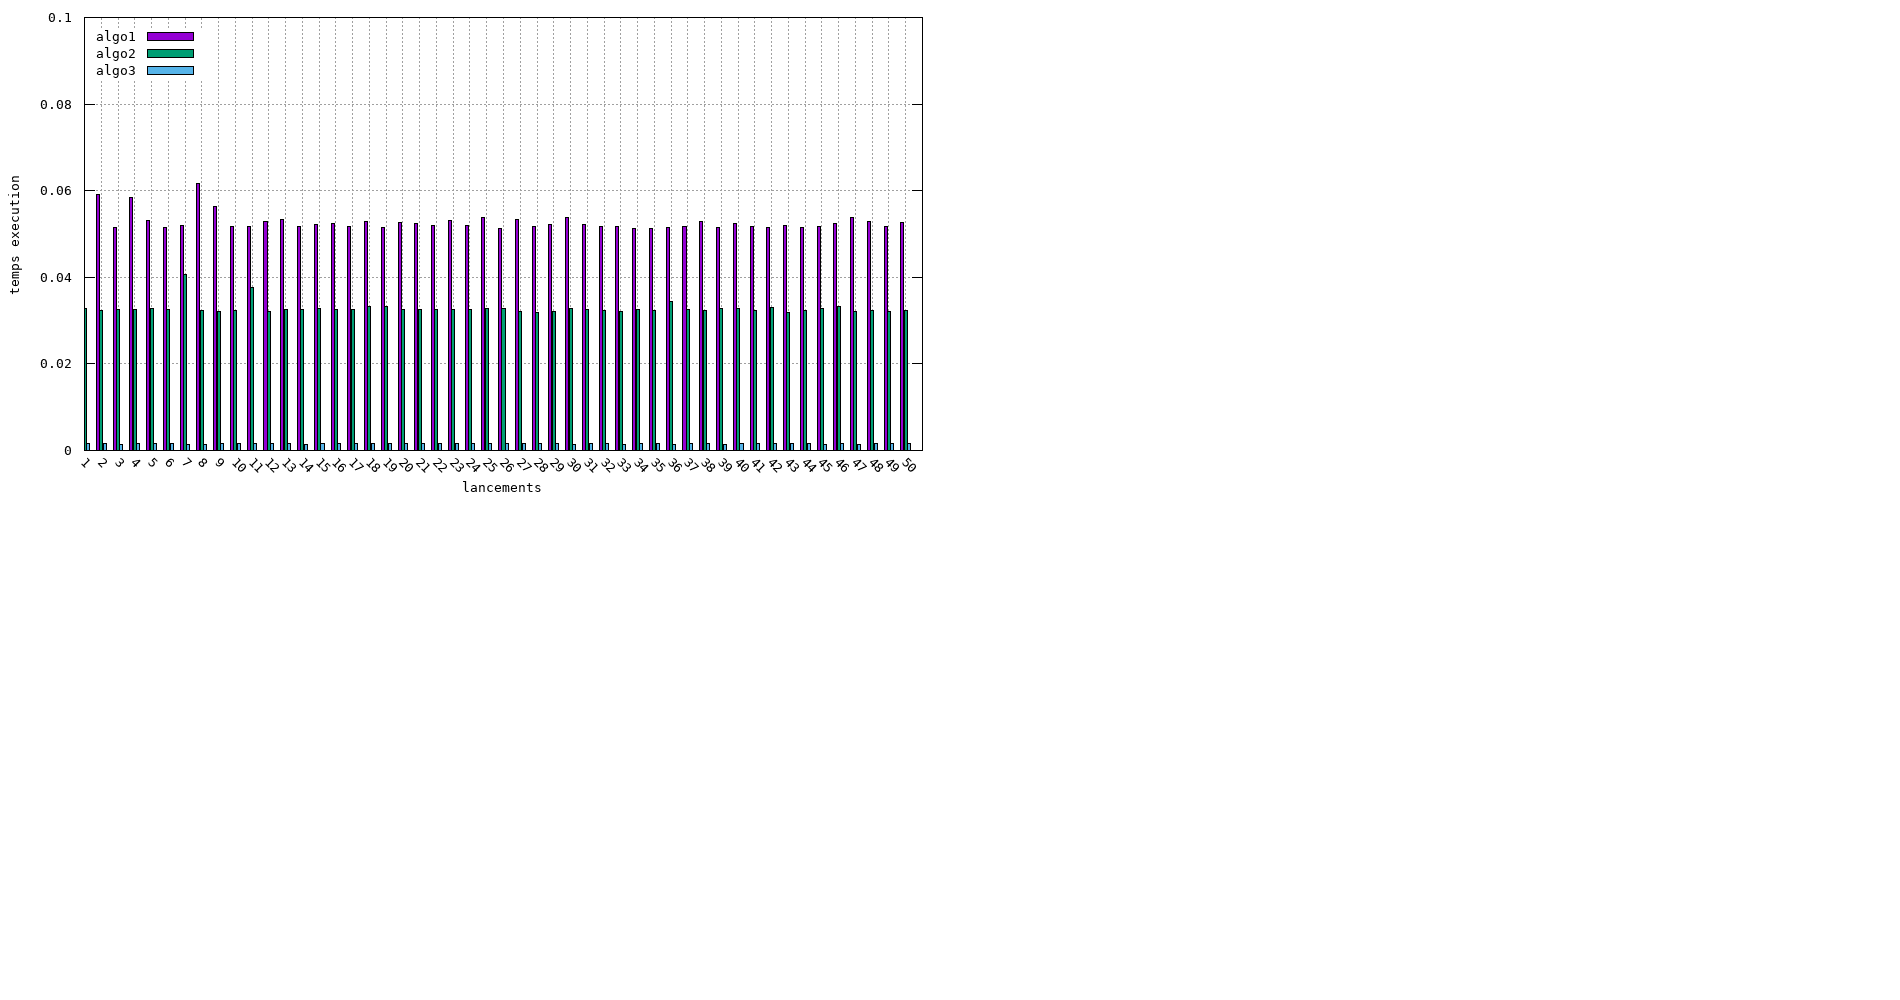
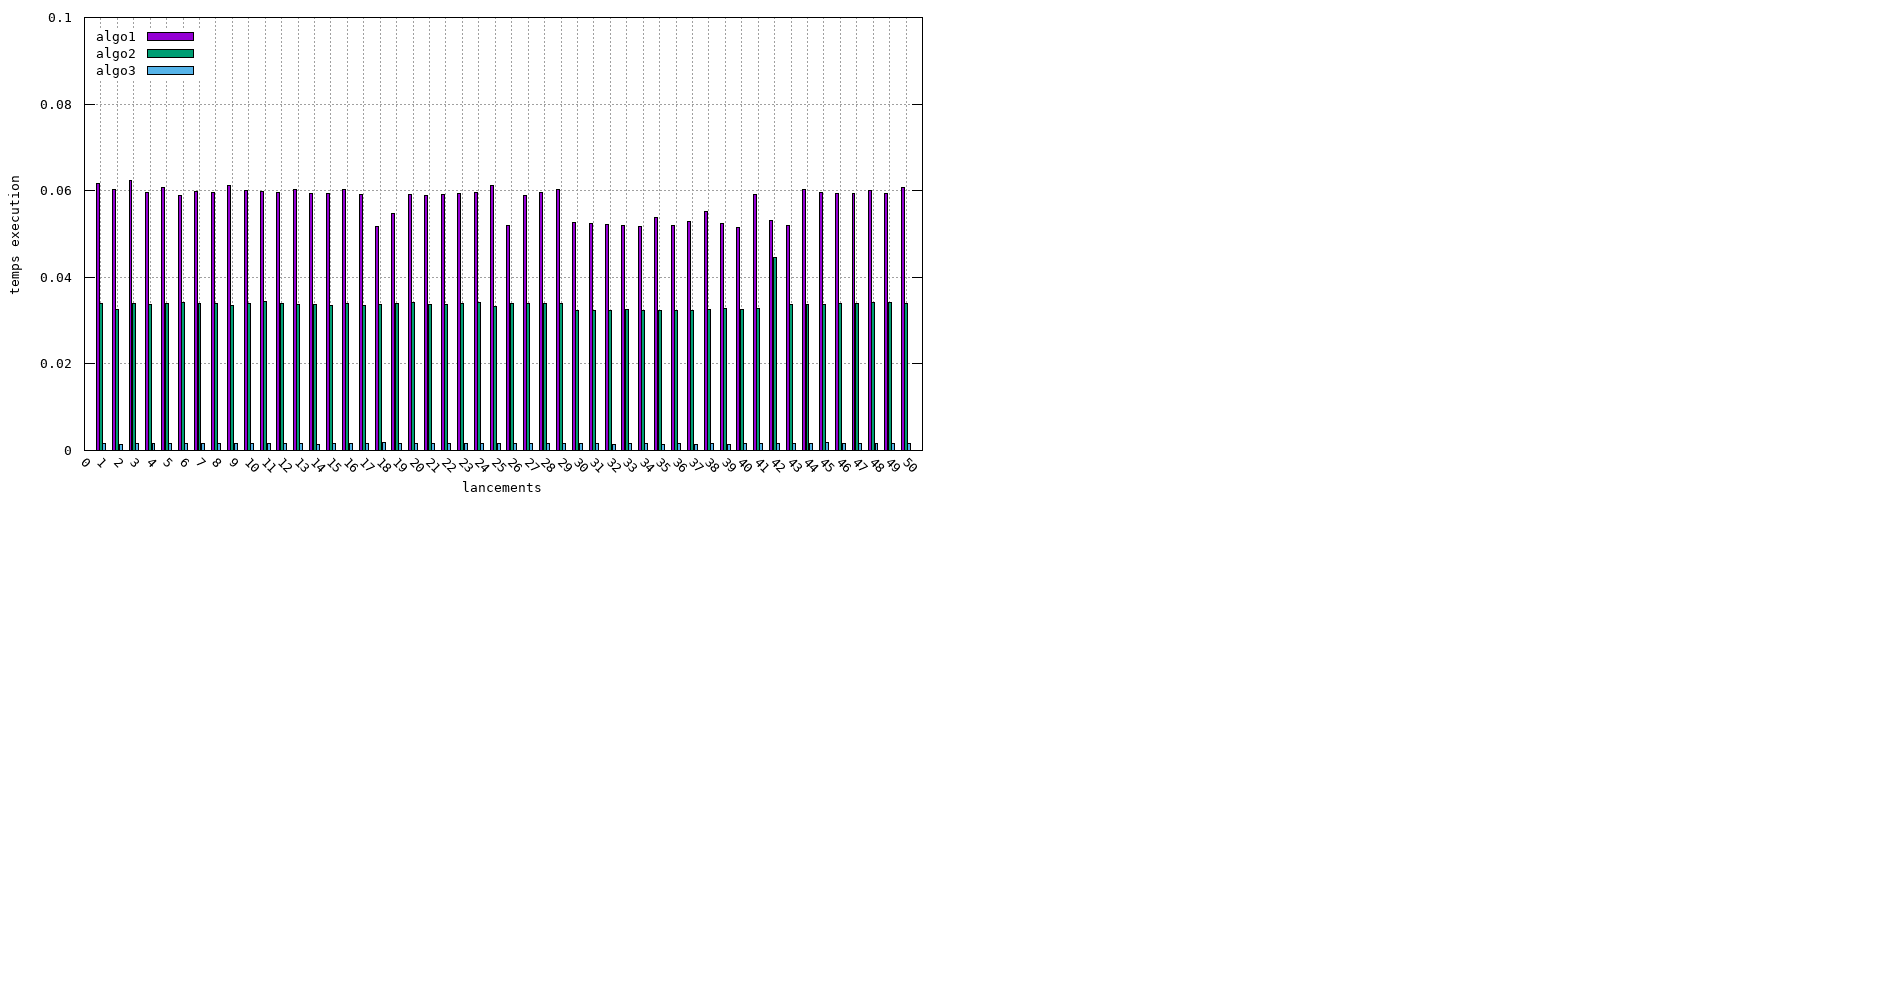
amelioration courbes

Changed region(s): [[0.0311, 0.186, 0.4968, 0.496]]

diff --git a/src/transferData.py b/src/transferData.py
@@ -4,6 +4,8 @@ def transferDataAlgo1():
 	lines = datafile.readlines()
 	count=0
 	datafileTransfer=open("../data/data_algo1_time_all.dat","a")
+	datafileTransfer.write(str(0)+";"+str(0))
+	datafileTransfer.write("\n")
 	for line in lines:
 	    count += 1
 	    data=line.strip()
@@ -16,6 +18,8 @@ def transferDataAlgo2():
 	lines = datafile.readlines()
 	count=0
 	datafileTransfer=open("../data/data_algo2_time_all.dat","a")
+	datafileTransfer.write(str(0)+";"+str(0))
+	datafileTransfer.write("\n")
 	for line in lines:
 	    count += 1
 	    data=line.strip()
@@ -28,6 +32,8 @@ def transferDataAlgo3():
 	lines = datafile.readlines()
 	count=0
 	datafileTransfer=open("../data/data_algo3_time_all.dat","a")
+	datafileTransfer.write(str(0)+";"+str(0))
+	datafileTransfer.write("\n")
 	for line in lines:
 	    count += 1
 	    data=line.strip()
